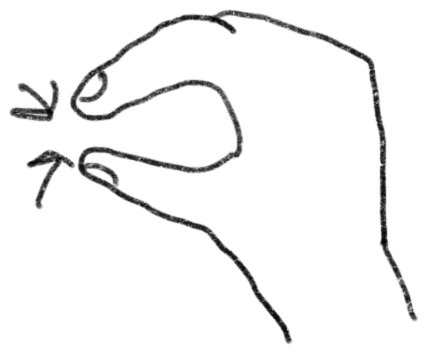
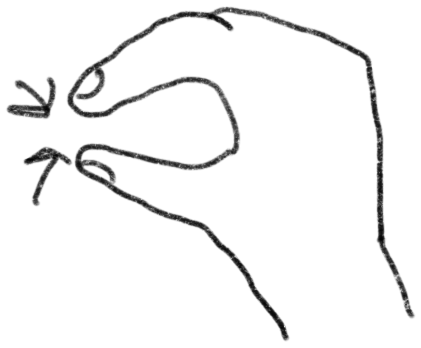
Phone: justified About text with few hyphens, bigger menu/X tap areas, name reloads the page, hand drawings as drawn (black lines, white fill)
Claude-Session: https://claude.ai/code/session_01H2foKrPwvE5qMn148yp7c5

diff --git a/index.html b/index.html
@@ -1,5 +1,5 @@
 <!DOCTYPE html>
-<html>
+<html lang="en">
 <head>
   <meta charset="utf-8">
   <meta name="viewport" content="width=device-width, initial-scale=1">
@@ -70,7 +70,7 @@
         padding: 12px 24px; font-size: 16px; }
       .nvResp { width: 26vw; height: 26vw; }
     }
-    #tourCopy.phone { position: fixed; left: 24px; right: 24px; bottom: 170px; width: auto; z-index: 1; }
+    #tourCopy.phone { position: fixed; left: 24px; right: 24px; bottom: 110px; width: auto; z-index: 1; }
     #tourCopy.phone #tourText { font-size: 18px; }
     #tourCopy.phone #tourImage { max-width: 100%; }
 
@@ -86,8 +86,8 @@
     #tourImage[hidden] { display: none; }
     #tourCursor { position: absolute; width: calc(31 * var(--k)); height: auto; pointer-events: none; }
     #tourCursor.drag { animation: tourDrag 2.4s ease-in-out infinite; }
-    /* phones: hand drawings, white so they show on the grey veil; the fingertip sits on the point */
-    #tourCursor.hand { width: 96px; margin: -14px 0 0 -22px; filter: invert(1) drop-shadow(0 1px 2px rgba(0,0,0,0.35)); }
+    /* phones: hand drawings; the fingertip sits on the point */
+    #tourCursor.hand { width: 96px; margin: -14px 0 0 -22px; }   /* your drawings as they are: black lines, white fill */
     @keyframes tourDrag { 0%, 12% { transform: translate(0, 0) scale(1); } 18% { transform: translate(0, 0) scale(0.88); }
       70% { transform: translate(var(--dx), var(--dy)) scale(0.88); } 78%, 100% { transform: translate(var(--dx), var(--dy)) scale(1); } }
     body.touring #helpBtn { z-index: 7; }
@@ -228,6 +228,7 @@
       .page h1 { margin-top: 72px; padding: 0 16px; font-size: 22px; }
     }
     .privacy { font-size: 0.85em; color: rgba(0,0,0,0.5); }
+    a.brand { color: #000; text-decoration: none; cursor: pointer; }   /* clicking the name reloads the page */
 
     /* ---------- PHONE (Figma: phone-home, phone-menu, phone-about, phone-contact) ---------- */
     #phoneBar, #phoneMenu, .mob { display: none; }
@@ -241,12 +242,12 @@
         align-items: center; justify-content: space-between; transition: opacity 0.3s ease; }
       body.page-open #phoneBar { opacity: 0; pointer-events: none; }
       #phoneBar button, #phoneMenu button { all: unset; cursor: pointer; }
-      #menuBtn { padding: 12px; margin: -12px; }
+      #phoneBar #menuBtn { padding: 22px; margin: -22px; }       /* the icon stays put; the tap area is ~67 × 62 */
       #menuBtn img { width: 23px; height: 18px; display: block; }
       /* menu: white screen, big links */
       #phoneMenu:not([hidden]) { display: block; position: fixed; inset: 0; z-index: 9; background: #fff; animation: tourIn 0.25s ease-out; }
       #phoneMenu .top { position: absolute; left: 26px; right: 33px; top: calc(30px + env(safe-area-inset-top, 0px)); display: flex; align-items: center; justify-content: space-between; }
-      #menuClose { padding: 12px; margin: -12px; }
+      #phoneMenu #menuClose { padding: 24px; margin: -24px; }
       #menuClose img { width: 16px; height: 16px; display: block; }
       #phoneMenu .items { position: absolute; left: 26px; top: calc(133px + env(safe-area-inset-top, 0px)); display: flex; flex-direction: column; gap: 40px; }
       #phoneMenu .items button { font-family: Helvetica, Arial, sans-serif; font-size: 32px; color: #000; }
@@ -260,6 +261,10 @@
       .about { width: auto; margin: 20px 25px 0; gap: 30px; padding-bottom: 80px; }   /* Figma phone-about: 345 wide, 30 between blocks */
       .about h2 + .text { margin-top: -10px; }                                         /* 20 between a heading and its text */
       .about p, .about li { font-size: 16px; line-height: 1.45; }   /* more air between lines: easier to read on a narrow screen */
+      /* even edges on a narrow column: justified, and only long words (10+ letters) may break with a hyphen */
+      .about .text p, .about .text li, .about > p { text-align: justify; text-wrap: pretty;
+        hyphens: auto; -webkit-hyphens: auto; hyphenate-limit-chars: 10 4 4;
+        -webkit-hyphenate-limit-before: 4; -webkit-hyphenate-limit-after: 4; -webkit-hyphenate-limit-lines: 1; }
       .about h2 { font-size: 18px; }
       .contact { width: auto; margin: 20px 25px; font-size: 16px; line-height: 1.45; }
       /* add a note: one column of steps, "Submit a note" button at the bottom */
@@ -283,12 +288,12 @@
 
   <!-- ---------- PHONE HEADER + MENU (Figma: phone-home, phone-menu) ---------- -->
   <header id="phoneBar">
-    <span class="brand">Common Ground</span>
+    <a class="brand" href="">Common Ground</a>
     <button id="menuBtn" aria-label="Open the menu" aria-expanded="false"><img src="icons/menu.svg" alt=""></button>
   </header>
   <div id="phoneMenu" hidden>
     <div class="top">
-      <span class="brand">Common Ground</span>
+      <a class="brand" href="">Common Ground</a>
       <button id="menuClose" aria-label="Close the menu"><img src="icons/close.svg" alt=""></button>
     </div>
     <nav class="items" aria-label="Menu">
@@ -323,7 +328,7 @@
   <button type="button" id="helpBtn" aria-label="How to use Common Ground"><img src="icons/question.svg" alt=""></button>
 
   <nav id="nav">
-    <span class="brand">Common Ground</span>
+    <a class="brand" href="">Common Ground</a>
     <img class="divider" src="icons/divider-thin.svg" alt="">
     <button id="navAdd">Add a note
       <img class="camera" src="icons/camera.svg" alt="">
